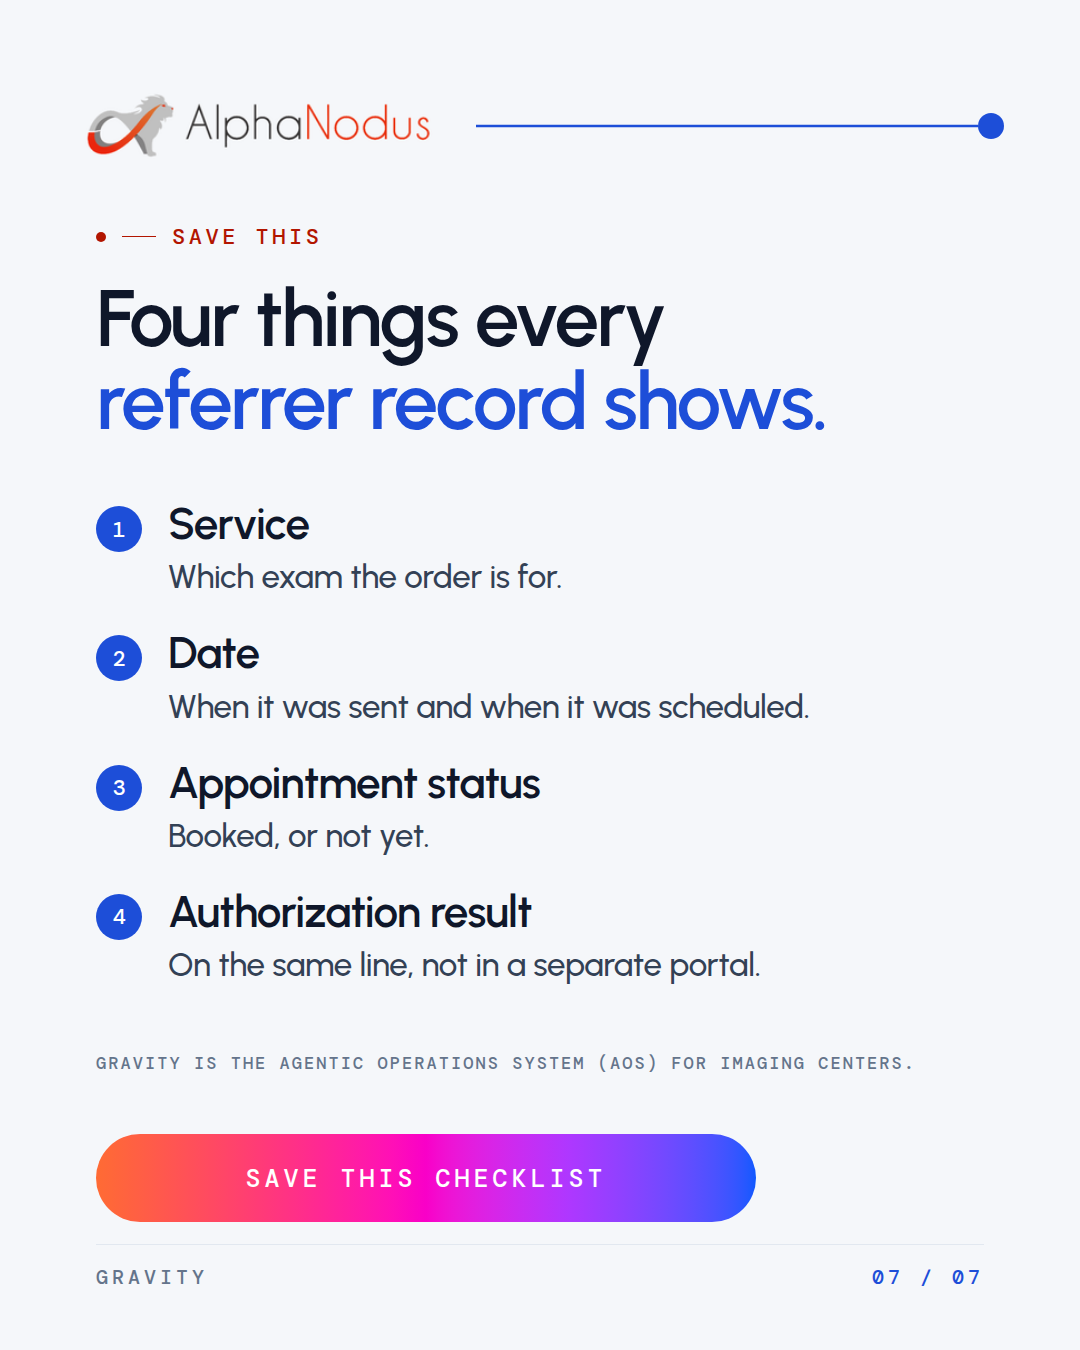
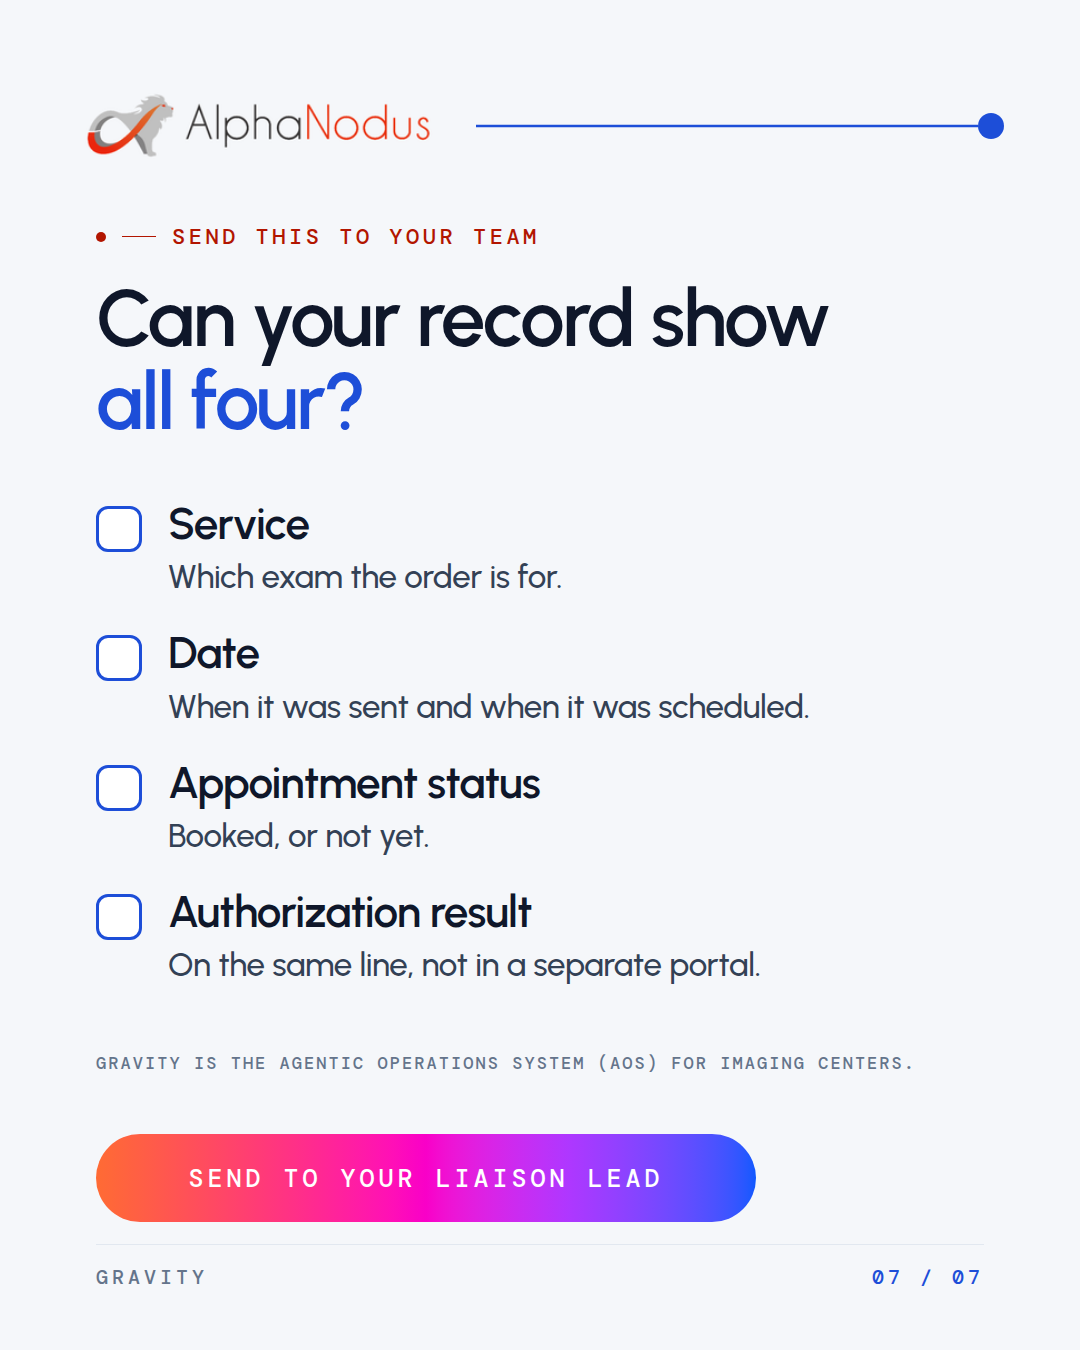
Instagram carousel: slide 7 as shareable self-audit checklist
Claude-Session: https://claude.ai/code/session_015WpH19GyZga14Ej8SYuQoS

diff --git a/.claude/skills/gravity-graphics/templates/carousel/referral-carousel-ig.html b/.claude/skills/gravity-graphics/templates/carousel/referral-carousel-ig.html
@@ -171,7 +171,7 @@ const F={
 4:O[3],
 5:Object.assign({},O[4],{body:'Built from the orders themselves, not a list someone keeps.'}),
 6:O[7],
-7:{eb:'Save this',size:80,head:'Four things every<br><em>referrer record shows.</em>',body:'',draw(){}}
+7:{eb:'Send this to your team',size:80,head:'Can your record show<br><em>all four?</em>',body:'',draw(){}}
 };
 
 const f=F[FRAME];
@@ -181,8 +181,8 @@ $('footR').textContent=String(FRAME).padStart(2,'0')+' / 0'+TOTAL;
 if(FRAME===1)$('head').style.lineHeight='.94';if(/^With|^Gravity/.test(f.eb)){$('eyebrow').style.color=C.blue;document.querySelectorAll('#eyebrow i').forEach(i=>i.style.background=C.blue)}
 f.draw();
 if(FRAME===7){const l=$('list');l.style.display='block';l.style.top='500px';
-  l.innerHTML=[['Service','Which exam the order is for.'],['Date','When it was sent and when it was scheduled.'],['Appointment status','Booked, or not yet.'],['Authorization result','On the same line, not in a separate portal.']].map((a,i)=>`<div class="it"><div class="n">${i+1}</div><div><div class="t">${a[0]}</div><div class="d">${a[1]}</div></div></div>`).join('')}
-if(FRAME===7){const c=$('chip');c.textContent='Save this checklist';c.style.display='flex';c.style.top='1134px';const a=$('aos');a.style.display='block';a.style.top='1050px'}
+  l.querySelectorAll;l.innerHTML=[['Service','Which exam the order is for.'],['Date','When it was sent and when it was scheduled.'],['Appointment status','Booked, or not yet.'],['Authorization result','On the same line, not in a separate portal.']].map((a,i)=>`<div class="it"><div class="n" style="background:#fff;border:3px solid #1D4ED8;border-radius:12px"></div><div><div class="t">${a[0]}</div><div class="d">${a[1]}</div></div></div>`).join('')}
+if(FRAME===7){const c=$('chip');c.textContent='Send to your liaison lead';c.style.display='flex';c.style.top='1134px';const a=$('aos');a.style.display='block';a.style.top='1050px'}
 window.render=()=>{};
 </script>
 </body>
